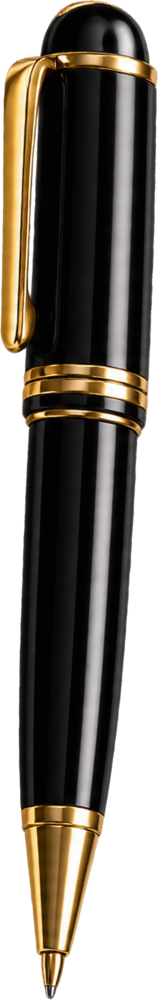
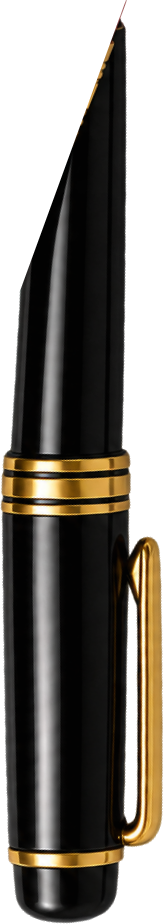
Fix falling pen/pencil orientation and start point near the bean bag
Re-extracted the pen, pencil and marker from logo.png so all three
point tip-up (matching how they sit in the footer cup) instead of
the pencil appearing upside down. Moved the hero anchor point to the
bean bag area so the items visibly start falling from there.

diff --git a/src/components/FallingPencil.tsx b/src/components/FallingPencil.tsx
@@ -19,38 +19,38 @@ type ItemConfig = {
 const ITEMS: ItemConfig[] = [
   {
     src: '/falling-pen.png',
-    width: 24,
-    aspect: 1000 / 158,
+    width: 22,
+    aspect: 924 / 163,
     xOffset: -40,
     startYOffset: -20,
     fadeInDelay: 0,
-    rotateFrom: -16,
-    rotateMid: 8,
-    rotateTo: -6,
+    rotateFrom: -8,
+    rotateMid: 5,
+    rotateTo: -3,
     fadeOutStart: 0.9,
   },
   {
     src: '/falling-pencil.png',
-    width: 27,
-    aspect: 946 / 116,
+    width: 24,
+    aspect: 968 / 114,
     xOffset: 0,
     startYOffset: 25,
     fadeInDelay: 0.02,
-    rotateFrom: -10,
-    rotateMid: 6,
-    rotateTo: -4,
+    rotateFrom: -5,
+    rotateMid: 4,
+    rotateTo: -2,
     fadeOutStart: 0.94,
   },
   {
     src: '/falling-marker.png',
-    width: 25,
-    aspect: 925 / 171,
+    width: 30,
+    aspect: 911 / 251,
     xOffset: 40,
     startYOffset: -40,
     fadeInDelay: 0.04,
-    rotateFrom: 14,
-    rotateMid: -8,
-    rotateTo: 5,
+    rotateFrom: 7,
+    rotateMid: -5,
+    rotateTo: 3,
     fadeOutStart: 0.88,
   },
 ]

diff --git a/src/components/sections/Hero.tsx b/src/components/sections/Hero.tsx
@@ -94,7 +94,7 @@ export function Hero({ settings }: { settings: SiteSettings }) {
             id="hero-cup-anchor"
             aria-hidden="true"
             className="pointer-events-none absolute h-px w-px"
-            style={{ left: '29.5%', top: '42.7%' }}
+            style={{ left: '14%', top: '31%' }}
           />
         </motion.div>
       </div>
